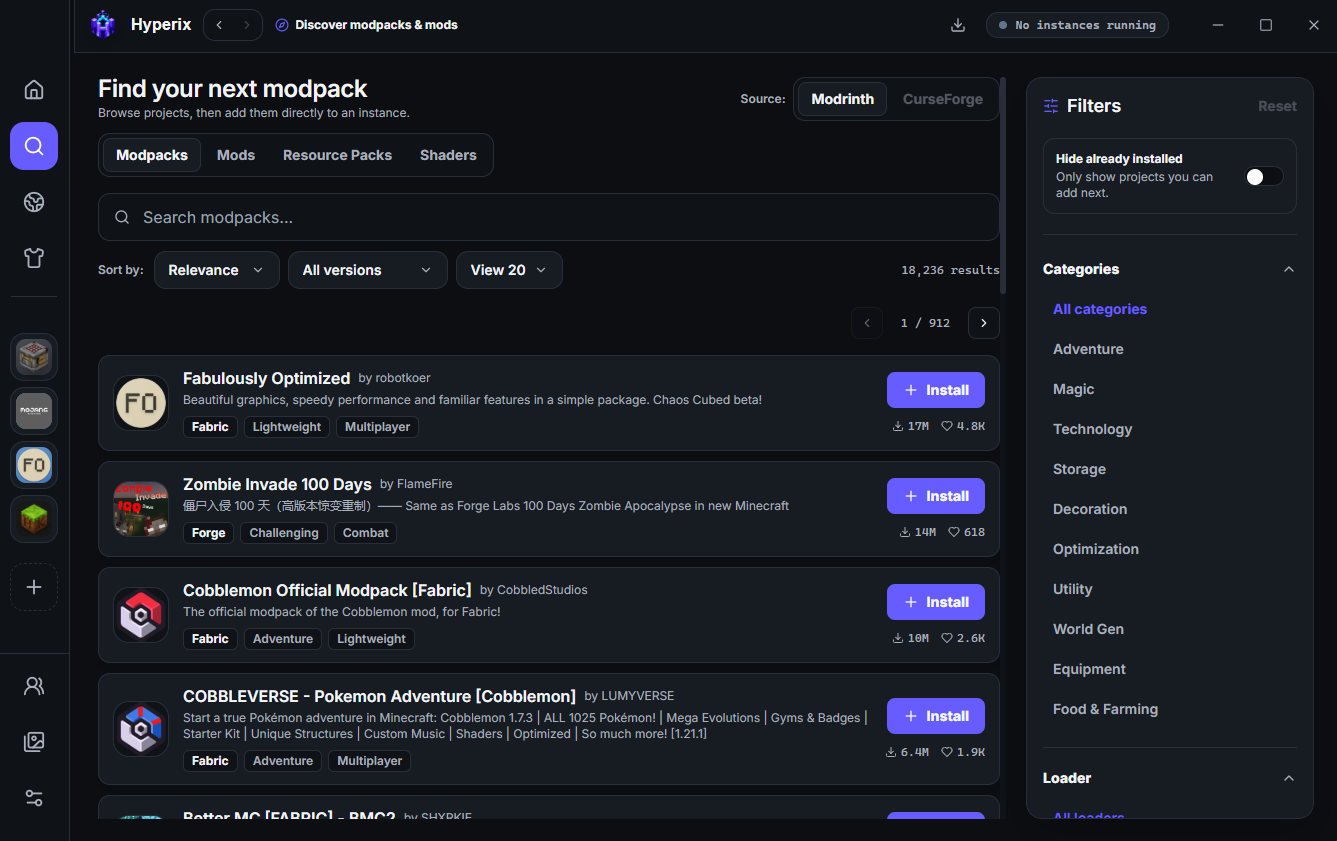
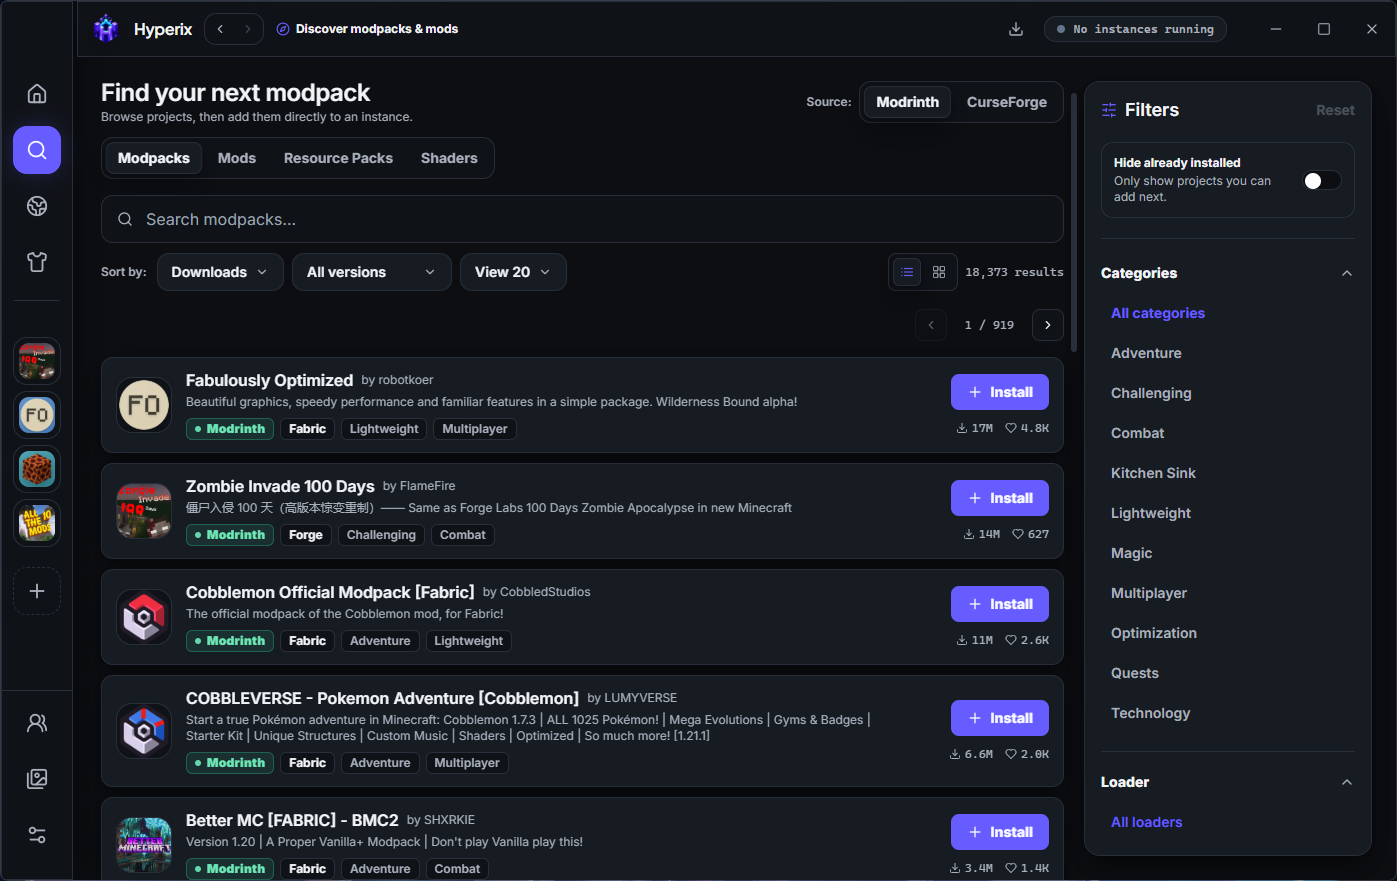
website: update showcase screenshots and add multiplayer servers & skin selector

diff --git a/index.html b/index.html
@@ -145,6 +145,30 @@
               <span>Browse compatible community projects through the official API.</span>
             </figcaption>
           </figure>
+
+          <figure class="screenshot servers-shot">
+            <div class="screenshot-frame">
+              <button class="image-trigger" type="button" data-index="3" data-image="./assets/servers.png" data-title="Multiplayer servers" data-desc="Track server latency, status, and player counts with real-time pings." data-alt="Hyperix multiplayer servers list with ping indicators" aria-haspopup="dialog" aria-label="Open Multiplayer servers screenshot">
+                <img src="./assets/servers.png" alt="Hyperix multiplayer servers list with ping indicators" loading="lazy" />
+              </button>
+            </div>
+            <figcaption>
+              <strong>Multiplayer servers</strong>
+              <span>Track server latency, status, and player counts with real-time pings.</span>
+            </figcaption>
+          </figure>
+
+          <figure class="screenshot skins-shot">
+            <div class="screenshot-frame">
+              <button class="image-trigger" type="button" data-index="4" data-image="./assets/skin-selector.png" data-title="Skin selector & 3D preview" data-desc="Preview skins in interactive 3D, switch variants, and customize your look." data-alt="Hyperix skin selector screen with 3D model preview" aria-haspopup="dialog" aria-label="Open Skin selector screenshot">
+                <img src="./assets/skin-selector.png" alt="Hyperix skin selector screen with 3D model preview" loading="lazy" />
+              </button>
+            </div>
+            <figcaption>
+              <strong>Skin selector & 3D preview</strong>
+              <span>Preview skins in interactive 3D, switch variants, and customize your look.</span>
+            </figcaption>
+          </figure>
         </div>
       </section>
 
@@ -489,7 +513,7 @@
         <div class="dialog-topbar">
           <div class="dialog-meta">
             <span class="dialog-badge"><span class="pulse-dot" aria-hidden="true"></span> <span id="dialog-title-text">Instance library</span></span>
-            <span class="dialog-index-counter" id="dialog-counter">1 / 3</span>
+            <span class="dialog-index-counter" id="dialog-counter">1 / 5</span>
           </div>
           <button class="dialog-close" type="button" aria-label="Close image preview">✕</button>
         </div>
@@ -609,6 +633,18 @@
           title: 'Modrinth discovery',
           desc: 'Browse compatible community projects through the official API.',
           alt: 'Hyperix discovery screen showing Modrinth project results'
+        },
+        {
+          image: './assets/servers.png',
+          title: 'Multiplayer servers',
+          desc: 'Track server latency, status, and player counts with real-time pings.',
+          alt: 'Hyperix multiplayer servers list with ping indicators'
+        },
+        {
+          image: './assets/skin-selector.png',
+          title: 'Skin selector & 3D preview',
+          desc: 'Preview skins in interactive 3D, switch variants, and customize your look.',
+          alt: 'Hyperix skin selector screen with 3D model preview'
         }
       ];
 

diff --git a/styles.css b/styles.css
@@ -639,9 +639,20 @@ h1 span {
 
 .screenshots {
   display: grid;
-  grid-template-columns: repeat(3, minmax(0, 1fr));
+  grid-template-columns: repeat(6, 1fr);
   gap: 1.6rem;
   align-items: stretch;
+}
+
+.screenshot:nth-child(1),
+.screenshot:nth-child(2),
+.screenshot:nth-child(3) {
+  grid-column: span 2;
+}
+
+.screenshot:nth-child(4),
+.screenshot:nth-child(5) {
+  grid-column: span 3;
 }
 
 .screenshot {
@@ -1409,6 +1420,13 @@ footer a:hover {
   }
   .screenshots {
     grid-template-columns: 1fr;
+  }
+  .screenshot:nth-child(1),
+  .screenshot:nth-child(2),
+  .screenshot:nth-child(3),
+  .screenshot:nth-child(4),
+  .screenshot:nth-child(5) {
+    grid-column: auto;
   }
   .content-policy {
     grid-template-columns: 1fr;
